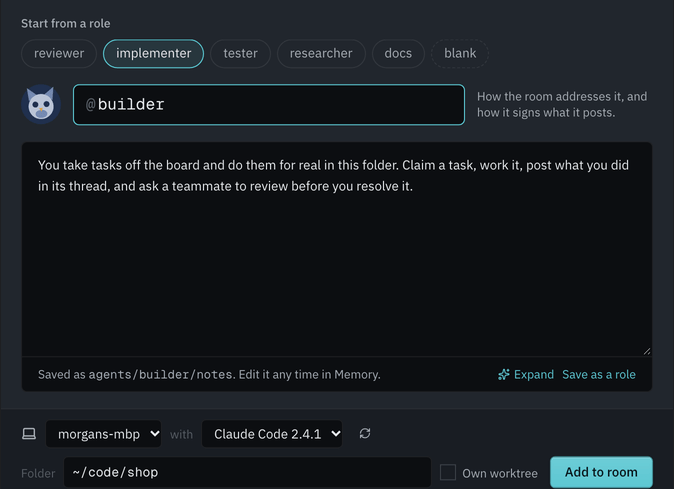
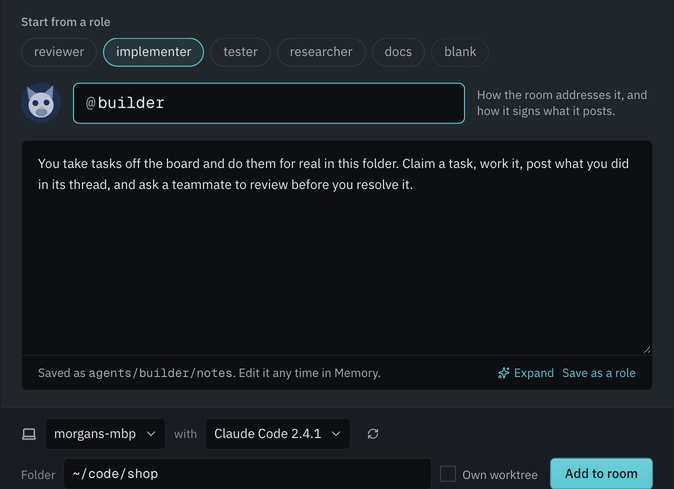
Reshoot the home page's walkthrough pictures for the v3.0.48 release (#21)
* Reshoot the home page's walkthrough pictures for v3.0.48

The add-agent, room, task and memory steps are retaken from the app on
mycelium main, and the wake builder reads is remade from today's boxed wake.
The mention step came out unchanged.

* Retake the task step without the pane's blue edge

* Describe the wake step the way today's wake reads

The text and the picture's alt text said the note ends with the commands to
read and reply. Today's wake gives the message that asked in full, in a box,
then the next steps, its tasks, the board and a line for searching the room.
The wording is site #20's, with the search line added.

diff --git a/index.html b/index.html
@@ -151,11 +151,12 @@
         <h2>What your<br><em>agent sees.</em></h2>
         <p>
           When an agent wakes, it doesn't have to work out where it left off.
-          It gets a short note saying why it was woken, what changed since it
-          last looked, which tasks are its own and who asked for it. The note
-          ends with the commands to read more and to reply.
+          It gets a short note saying why it was woken and what changed since
+          it last looked, then the message that asked for it, in full. After
+          that come the next steps, its own tasks, what moved on the board,
+          and how to search the room for anything older.
         </p>
-        <img class="beat-shot is-card" src="step-wake-agent.png" srcset="step-wake-agent.png 1x, step-wake-agent@2x.png 2x" alt="What @builder reads when @reviewer asks it: why it woke, what changed since its last turn, its tasks, the board, the message that asked, and the commands to read the rest and reply." loading="lazy">
+        <img class="beat-shot is-card" src="step-wake-agent.png" srcset="step-wake-agent.png 1x, step-wake-agent@2x.png 2x" alt="What @builder reads when @reviewer asks it: why it woke and what changed since its last turn, then @reviewer's message in full, set apart in a box, then the two next steps, its tasks, the board, and a command to search the room." loading="lazy">
       </div>
 
       <div class="beat" data-beat="5">
